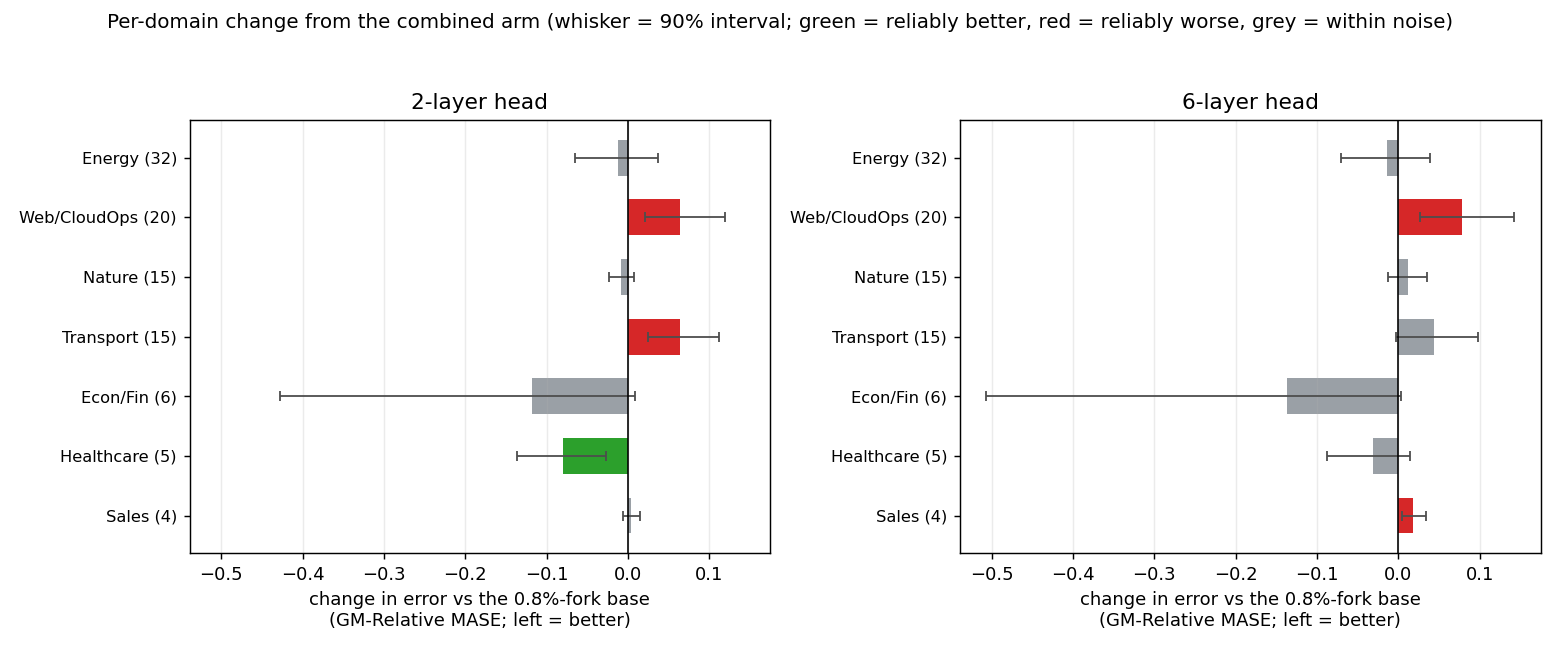
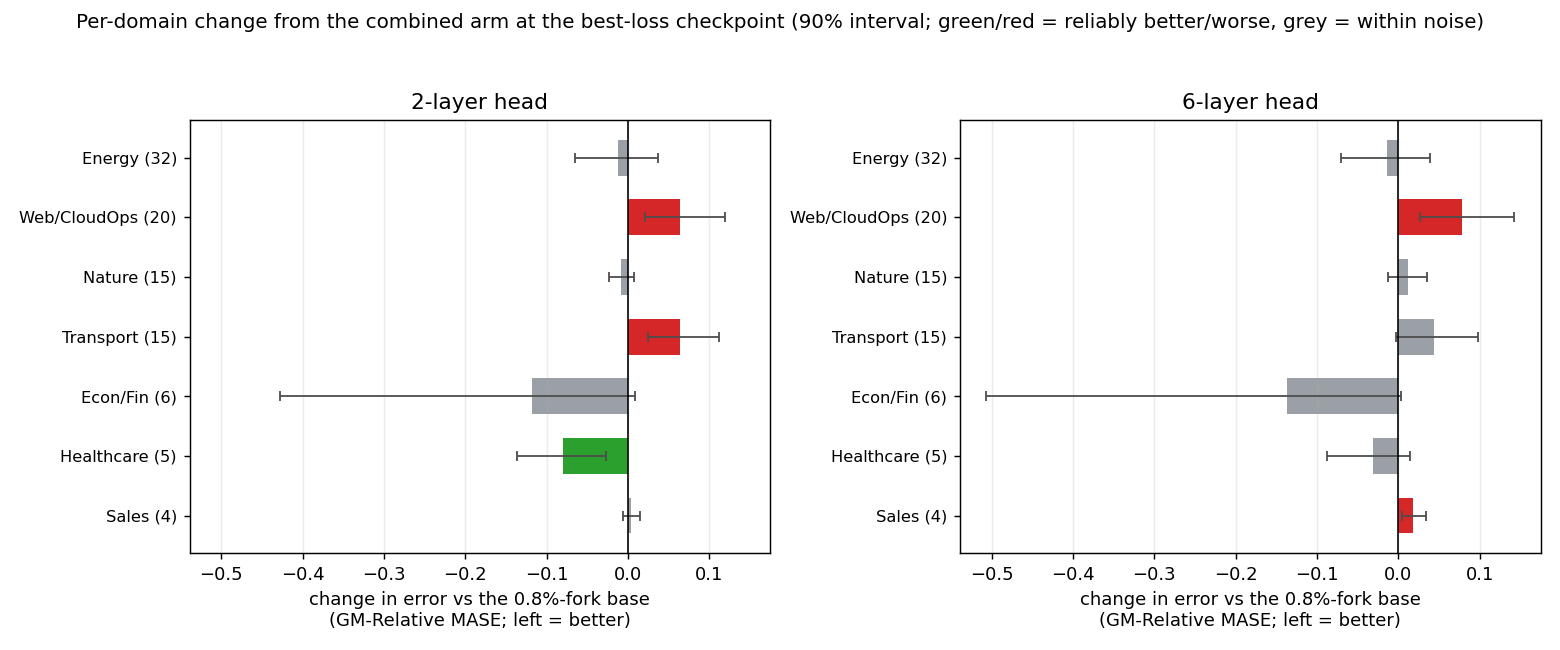
report(#328): bring crossfade_triplet.md into full report-standard compliance
Structure and ordering: triplet-isolation results moved out of Follow-up into
the results flow (question -> results -> protocol -> learned -> follow-up);
Follow-up now carries only the two-candidate framing, the flagged bottleneck
hypothesis, and the stop-grad pointer; no forward references remain.

Facts-only precision (no conclusion changed): claims pinned to checkpoints and
scoped to their arm groups; direct paired contrasts (triplet vs its host; 25k vs
best-loss) added with 90% CIs from the same bootstrap; head protocols (fresh 30k
at best, re-adapt 10k at last) disclosed at the headline and in Protocol;
B4, R2 baselines defined; mis-roundings aligned to scoreboard.py full precision
(1.169->1.170, +0.101->+0.100, 1.261->1.260); saved best-loss step 6,400.

Figures: per-domain split added at the last checkpoint (perdomain_delta_last)
where the headline gain lives - Energy is the only both-head reliable mover;
both per-domain titles now name their checkpoint; orphan training_metrics.png
removed; annex param counts filled from run logs.

Two sub-agent review passes (claims vs data, checklist) confirm every number
against scoreboard.py, the per-domain CSVs, losses CSVs, and run logs.

Changed region(s): [[0.0615, 0.0, 0.9538, 0.0615]]

diff --git a/experiments/2026-06-03_crossfade_triplet/scripts/perdomain_stats.py b/experiments/2026-06-03_crossfade_triplet/scripts/perdomain_stats.py
@@ -23,7 +23,9 @@ ED = os.environ.get("ED", "/tmp/cf-328/experiments/2026-06-03_crossfade_triplet"
 OUTCSV = os.environ.get("OUTCSV", f"{ED}/results/perdomain_stats.csv")
 OUTPNG = os.environ.get("OUTPNG", f"{ED}/plots/perdomain_delta.png")
 BASE_TAG = "xshh_allt_forked2_qk_aon_b1024"
-TRIP_TAG = "allt08_xftrip_nobn_enc3_qk_aon_b1024"
+TRIP_TAG = os.environ.get("TRIP_TAG", "allt08_xftrip_nobn_enc3_qk_aon_b1024")
+TITLE = os.environ.get("TITLE", "Per-domain change from the combined arm (whisker = 90% interval; "
+                                "green = reliably better, red = reliably worse, grey = within noise)")
 # fixed (task-count descending) order
 DOMAINS = ["Energy", "Web/CloudOps", "Nature", "Transport", "Econ/Fin", "Healthcare", "Sales"]
 HLAB = {"2L": "2-layer head", "6L": "6-layer head"}
@@ -118,8 +120,7 @@ if any(data[("6L", d)]["tasks"] >= 2 for d in DOMAINS):
         ax.set_title(HLAB[head], fontsize=12)
         ax.set_xlabel("change in error vs the 0.8%-fork base\n(GM-Relative MASE; left = better)")
         ax.grid(axis="x", alpha=0.25)
-    fig.suptitle("Per-domain change from the combined arm (whisker = 90% interval; "
-                 "green = reliably better, red = reliably worse, grey = within noise)", fontsize=11)
+    fig.suptitle(TITLE, fontsize=11)
     fig.tight_layout(rect=(0, 0, 1, 0.95))
     os.makedirs(os.path.dirname(OUTPNG), exist_ok=True)
     fig.savefig(OUTPNG, dpi=130)

diff --git a/experiments/2026-06-03_crossfade_triplet/crossfade_triplet.md b/experiments/2026-06-03_crossfade_triplet/crossfade_triplet.md
@@ -11,9 +11,9 @@ responsible?
 
 *Forecast error is **GM-Relative MASE**: the geometric mean, over GIFT-Eval's 97 tasks, of a model's
 error divided by the seasonal-naive forecast's error. Lower is better; 1.0 = seasonal-naive. Each
-frozen backbone is scored by training a fresh quantile forecasting head on top — once with two
-layers (**2L**), once with six (**6L**) — and evaluating on all 97 tasks. A **paired bootstrap** over
-the 97 tasks (resample the task list with repeats, score both models on each resample so per-task
+frozen backbone is scored by training a quantile forecasting head on top — once with two layers
+(**2L**), once with six (**6L**) — and evaluating on all 97 tasks. A **paired bootstrap** over the
+97 tasks (resample the task list with repeats, score both models on each resample so per-task
 difficulty cancels) gives a 90% interval on each arm's difference from the base. One backbone seed
 per arm, so every interval is over tasks, not over training seeds.*
 
@@ -25,21 +25,25 @@ the base after full training (the last checkpoint).
 | arm vs base | head | best-loss GM | Δ (90% CI) | last GM | Δ (90% CI) |
 |---|---|--:|:--:|--:|:--:|
 | L3+nobn+triplet | 2L | 1.220 | +0.007 (−0.014, +0.028) | **1.181** | **−0.032 (−0.050, −0.014)** |
-| L3+nobn+triplet | 6L | 1.211 | +0.013 (−0.012, +0.036) | **1.169** | **−0.029 (−0.049, −0.011)** |
+| L3+nobn+triplet | 6L | 1.211 | +0.013 (−0.012, +0.036) | **1.170** | **−0.029 (−0.049, −0.011)** |
 
 Base GM is 1.213 (2L) and 1.198 (6L). At the best-loss checkpoint both intervals cover zero, so the
-arm is within task-set noise — the neutral reading. At the last checkpoint both intervals sit fully
-below zero on both heads, so the arm reliably beats the base. Selecting the backbone by lowest
-contrastive loss hid this gain; evaluating at full training revealed it.
+arm is within task-set noise. At the last checkpoint both intervals sit fully below zero on both
+heads, so the arm reliably beats the base. Selecting the backbone by lowest contrastive loss hid
+this gain; evaluating at full training revealed it. (The two checkpoint columns also differ in head
+protocol — fresh 30k-step heads at best-loss, the same heads re-adapted a further 10k steps at
+last, identically for every arm; see Protocol.)
 
 ## Disentanglement — the gain tracks the triplet, not bottleneck removal
 
 Running the three changes one at a time (same base, same seed, same budget) separates their effects.
-The figure below reads each arm against the base at both checkpoints and both heads.
+The figure below reads every arm trained to the standard 12.5k budget against the base at both
+checkpoints and both heads; this section covers the component arms, the next section the two arms
+that add the triplet to other hosts, and the 25k extension is read separately below.
 
-![GM-Relative MASE for each disentanglement arm at the best-loss and last checkpoints, 2L and 6L
-heads, against the base. Bars below the base line and with a 90% interval clear of it are reliable
-improvements; bars above are reliable worsenings.](plots/gm_summary.png)
+![Change in GM-Relative MASE vs the base for every 12.5k-budget arm at the best-loss (solid) and
+last (hatched) checkpoints, 2L and 6L heads. Bars below zero are improvements; green and red mark a
+90% interval clear of zero (reliably better / reliably worse), grey is within noise.](plots/gm_summary.png)
 
 | arm | head | best-loss Δ (90% CI) | last Δ (90% CI) |
 |---|---|:--:|:--:|
@@ -52,62 +56,93 @@ improvements; bars above are reliable worsenings.](plots/gm_summary.png)
 | **L3+nobn+triplet** | 2L | +0.007 (−0.014, +0.028) ns | **−0.032 (−0.050, −0.014) better** |
 | **L3+nobn+triplet** | 6L | +0.013 (−0.012, +0.036) ns | **−0.029 (−0.049, −0.011) better** |
 
-Reading down the column:
+Reading down the table:
 
 - **Dropping the bottleneck alone (L6+nobn)** is reliably worse than the base on both heads at both
-  checkpoints — the largest single worsening among the components.
+  checkpoints — the only arm reliably worse in all four head × checkpoint cells.
 - **Shrinking the encoder alone (L3)** is inconsistent: reliably worse at 2L-best and at 6L-last,
   neutral elsewhere.
 - **L3+nobn** (both architecture changes, no triplet) is neutral except 6L-last, where it is
   marginally better (−0.015, upper bound −0.002).
-- **L3+nobn+triplet** is the only arm reliably better on both heads, and only at full training.
+- **L3+nobn+triplet** is the only arm in this table reliably better on both heads, and only at full
+  training.
 
 Adding the triplet is the only change that turns the arm into a reliable both-head improvement, so
-the full-training gain is attributable to the triplet rather than to removing the bottleneck or
-shrinking the encoder.
+the full-training gain tracks the triplet rather than the architecture changes alone. The direct
+paired contrast of L3+nobn+triplet against L3+nobn at the last checkpoint puts the triplet's own
+increment at −0.035 (−0.050, −0.020) at 2L (reliable) and −0.014 (−0.030, +0.002) at 6L — same
+direction, within noise, on top of L3+nobn's own marginal 6L-last gain (−0.015).
+
+## Triplet isolation — the triplet alone is sufficient on the base
+
+The headline arm bundles the triplet with two architecture changes. Two further arms isolate the
+triplet's effect: each row below differs from its own reference by the triplet alone.
+
+| arm | difference from its reference | result |
+|---|---|---|
+| **base+triplet** | adds only the triplet to the unmodified base | **Reliably better at both heads at best-loss, and at 2L robust to checkpoint choice**: 2L best 1.186 (Δ −0.027 [−0.042, −0.011]), 2L last 1.187 (Δ −0.025 [−0.042, −0.008]), 6L best 1.185 (Δ −0.013 [−0.025, −0.002]), 6L last 1.190 (Δ −0.008 [−0.020, +0.003], same direction, ns). |
+| L6+nobn+triplet | adds the triplet to L6+nobn | Ends reliably worse than the base on both heads and degrades with training: 2L 1.274 → 1.313 (last Δ +0.100), 6L 1.225 → 1.260 (last Δ +0.062). |
+
+Two readings follow.
+
+**The triplet alone is sufficient.** On the unmodified base it is reliably better at both heads at
+the best-loss checkpoint, without any architecture change — and unlike the headline arm, whose
+verdict flips between checkpoints, its 2L gain does not depend on checkpoint selection (best −0.027,
+last −0.025, both reliable; at 6L the last checkpoint keeps the direction at −0.008 but is within
+noise). Its 2L gain is comparable to the headline arm's (−0.032 at last); the architecture changes
+are not needed for the effect. The predecessor #326 (a C-only crossfade slice on the 10%-fork base)
+gave ≈−0.013 over its base — the same direction, smaller.
+
+**The failure case is the no-bottleneck 6-layer configuration, not 6-layer encoders.** The triplet
+helps on the base (6-layer encoder, with bottleneck) and, at full training, on L3+nobn — but at full
+training it reliably hurts L6+nobn (direct paired contrast against L6+nobn: 2L +0.039
+[+0.017, +0.062], 6L +0.042 [+0.017, +0.067]), the one configuration that is already reliably worse
+than the base on its own.
 
 ## Train-longer hurts
 
 Extending the combined backbone from 12,500 to 25,000 steps (fresh data for the extra steps,
-equivalent to a single 25k-step run) does not help: the step-25k checkpoint is reliably worse than
-the base on both heads. This eval uses a fresh 30k head — the same protocol as the best-loss evals —
-so the controlled comparison is against the base and against the fresh-head best-loss checkpoint
-(step 6,407: 1.220 / 1.211); both show the longer-trained backbone is worse.
+equivalent to a single 25k-step run) does not help. This eval uses a fresh 30k head — the same
+protocol as the best-loss evals — so the controlled comparisons are against the base and against the
+fresh-head best-loss checkpoint (step 6,400: 1.220 / 1.211): the step-25k backbone is reliably worse
+than the base on both heads, and worse than the best-loss point reliably at 2L (same direction,
+within noise, at 6L).
 
-| arm (step 25k, fresh head) | head | GM | Δ vs base (90% CI) | Δ vs step-6.4k |
+| arm (step 25k, fresh head) | head | GM | Δ vs base (90% CI) | Δ vs step-6.4k (90% CI) |
 |---|---|--:|:--:|:--:|
-| L3+nobn+triplet @25k | 2L | 1.249 | +0.037 (+0.018, +0.055) worse | +0.030 |
-| L3+nobn+triplet @25k | 6L | 1.222 | +0.024 (+0.013, +0.035) worse | +0.011 |
+| L3+nobn+triplet @25k | 2L | 1.249 | +0.037 (+0.018, +0.055) worse | +0.030 (+0.002, +0.059) worse |
+| L3+nobn+triplet @25k | 6L | 1.222 | +0.024 (+0.013, +0.035) worse | +0.011 (−0.014, +0.037) ns |
 
 25k steps is ≈0.6 of one epoch (the pretrain set `small_v1` holds 42,571,692 windows; at 1,016 real
-rows/step one pass ≈ 41,900 steps), so this is late-training instability within the first epoch, not
-data starvation. *Protocol note:* the 12.5k headline result (1.181 / 1.169) used a re-adapted head,
-not a fresh one, so it is not on the same head-protocol curve as the fresh-head points here and is
-not used for the train-longer contrast.
+rows/step one pass ≈ 41,900 steps), so the degradation arrives within the first epoch — data
+starvation is not the cause. *Protocol note:* the 12.5k headline result (1.181 / 1.170) used a
+re-adapted head, not a fresh one, so it is not on the same head-protocol curve as the fresh-head
+points here and is not used for the train-longer contrast.
 
-## Training dynamics — pretext quality is anti-correlated with transfer
+## Training dynamics — pretext loss does not predict transfer
 
 The combined arm trains cleanly and does not collapse. The panels below overlay all arms on log-log
 axes.
 
 ![Training dynamics, log-log, all arms vs the base (dashed grey), from step 100 with a 120-step
-moving average. Top, lower is better: contrastive loss above its InfoNCE floor, the ratio gap
-(1−ff)/(1−fp) where ff is forecast-to-future cosine and fp forecast-to-present cosine, 1−R²_naive and
-1−R²_random. Bottom, higher is better: U_batch and U_temporal, the fraction of embedding dimensions
-in use.](plots/disentangle_metrics.png)
+moving average. Lower is better for: contrastive loss above its InfoNCE floor; the ratio gap
+(1−ff)/(1−fp), where ff is the forecast-to-future cosine and fp the forecast-to-present cosine; and
+1−R²_naive and 1−R²_random, the share of the next latent the forecaster leaves unexplained relative
+to a latent-persistence / random-pair baseline. Higher is better for: U_batch and U_temporal, the
+fraction of embedding dimensions in use.](plots/disentangle_metrics.png)
 
-At step 12,500 the arms rank on the pretext task in the opposite order to their downstream result:
+At step 12,500 the extremes of the pretext task sit in the opposite order downstream:
 
-- The **triplet raises the contrastive loss** (1.065 for L3+nobn+triplet vs 0.895 for the base) — a
-  harder pretext — yet it is the arm that improves downstream.
-- **Dropping the bottleneck lowers the contrastive loss and raises used dimensions** (L6+nobn reaches
-  loss 0.662 and U_batch 0.197, the easiest pretext and the most-used embedding among the arms) — yet
-  it transfers worst.
+- The **triplet raises the contrastive loss** (1.065 for L3+nobn+triplet vs 0.895 for the base) —
+  the hardest pretext among all arms — yet it is the arm that improves downstream.
+- **Dropping the bottleneck lowers the contrastive loss and raises used dimensions** (L6+nobn
+  reaches loss 0.662 and U_batch 0.197, the easiest pretext and the most-used embedding among the
+  no-triplet arms) — yet it is the only arm reliably worse than the base in all four cells.
 
-On this benchmark a lower contrastive loss is not a sign of a better forecasting backbone. (A harder
-pretext is not required for a gain either — see base+triplet in the follow-up section, which leaves
-the pretext loss essentially unchanged and still transfers better.) No arm collapsed: every
-used-dimension count stays well above zero and forecast-to-future cosine reaches ~0.99.
+On this benchmark a lower contrastive loss is not a sign of a better forecasting backbone. A harder
+pretext is not required for a gain either: base+triplet leaves the pretext loss essentially at the
+base value (0.881 vs 0.895) and still transfers better. No arm collapsed: every used-dimension count
+stays well above zero and forecast-to-future cosine reaches ~0.99.
 
 ## Protocol
 
@@ -117,90 +152,85 @@ set of negatives, on a mix that is 99.2% real series and 0.8% synthetic **forked
 ARMA series that share a prefix then diverge — a hard negative for position), under an **all-time**
 contrastive loss (it separates different series at every time lag, not just aligned positions). Held
 fixed: the two batch-1024 stabilisers (**QK-norm** and an **attention-output norm**),
-**floor-subtraction** (re-basing the loss by its uniformity floor), the optimiser, learning rate,
+**floor-subtraction** (re-basing the loss by its InfoNCE floor), the optimiser, learning rate,
 temperature, and the random seed. The **triplet** adds, per step, one z-normalised window pair
 (A_norm, B_norm) and their blend C on top of the natural batch — C copies A's past, ramps across a
 transition band, and copies B's future, so position no longer separates the spliced window from its
-neighbours; the figure in the annex shows one example. Each backbone is frozen and scored by training
-a fresh 2L and 6L quantile head (30k steps, batch 256) and evaluating on GIFT-Eval (strategy B4) over
-the full 97 tasks. Because the headline arm changes three things together, its best-vs-last
-comparison measures a joint effect; the disentanglement arms isolate the components.
+neighbours; the annex shows one example.
+
+Each backbone is scored frozen, under two head protocols. At the **best-loss checkpoint** (lowest
+contrastive loss) a fresh 2L and a fresh 6L quantile head are trained on top (30k steps, batch 256)
+— the same fresh-head protocol as the base's own score, which uses the base's fully-trained backbone
+(12,500 steps). At the **last checkpoint** (step 12,500) the arm's best-loss head is resumed and
+re-adapted for 10k steps on the final backbone — the same re-adapt protocol for every arm. The 25k
+extension is scored with a fresh 30k head. Heads are evaluated on GIFT-Eval (forecast strategy
+**B4**: roll the forecast out in latent space, decode each step with the head) over the full 97
+tasks, and every delta is paired against the same base score. Because the headline arm changes three
+things together, its delta against the base measures their joint effect; the disentanglement arms
+isolate the components.
 
 ## What we learned
 
-1. **Checkpoint selection flips the verdict.** L3+nobn+triplet is neutral at best-loss (2L
-   +0.007, 6L +0.013, both CIs straddle zero) but reliably beats the base at full training (2L
-   −0.032 [−0.050, −0.014]; 6L −0.029 [−0.049, −0.011]). The earlier "neutral" reading came from the
-   best-loss checkpoint.
+1. **Checkpoint selection flips the verdict.** L3+nobn+triplet is neutral at best-loss (2L +0.007,
+   6L +0.013, both CIs straddle zero) but reliably beats the base at full training (2L −0.032
+   [−0.050, −0.014]; 6L −0.029 [−0.049, −0.011]).
 2. **The gain tracks the triplet.** Dropping the bottleneck alone is reliably worse on both heads;
-   shrinking the encoder alone is inconsistent; only the triplet arm is reliably better on both
-   heads, and only at full training.
-3. **Train-longer hurts.** Extending to 25k reliably worsens both heads (2L +0.037, 6L +0.024);
-   downstream peaks near 12.5k, within the first epoch.
-4. **Pretext loss does not predict transfer in either direction.** Dropping the bottleneck gives the
-   lowest contrastive loss and the worst transfer; the headline arm raises the loss and transfers
-   better; base+triplet leaves the loss essentially unchanged (0.881 vs 0.895) and still transfers
-   reliably better. Checkpoint and arm selection should not be driven by the contrastive loss.
+   shrinking the encoder alone is inconsistent; of the disentanglement arms, only the full
+   combination with the triplet is reliably better on both heads, and only at full training.
+3. **The triplet alone is sufficient on the base.** base+triplet is reliably better at both heads at
+   best-loss and keeps its 2L gain at the last checkpoint (−0.027 / −0.025); no architecture change
+   is needed.
+4. **Train-longer hurts.** Extending to 25k reliably worsens both heads against the base (2L +0.037,
+   6L +0.024) and sits above the fresh-head best-loss point (reliably at 2L) — all within the first
+   epoch.
+5. **Pretext loss does not predict transfer in either direction.** Dropping the bottleneck gives the
+   easiest pretext among the no-triplet arms yet is reliably worse in all four cells; the
+   headline arm raises the loss and transfers better; base+triplet leaves the loss essentially
+   unchanged (0.881 vs 0.895) and still transfers reliably better. Checkpoint and arm selection
+   should not be driven by the contrastive loss.
 
-## Follow-up — triplet isolation across architectures
+## Follow-up — two candidate recipes and a stop-gradient test
 
-The headline arm bundles the triplet with two architecture changes. Two further arms isolate the
-triplet's effect: each pair below differs from its own reference by the triplet alone.
+Two configurations improve on the base and carry forward: **base+triplet** (128-wide bottleneck
+kept) — the smaller gain but robust to checkpoint choice at 2L, and the simplest change — and
+**L3+nobn+triplet** (full-width forecaster) — the best single number (6L last 1.170) but only at
+full training, and it needed the encoder shrink to work.
 
-| arm | difference from its base | result |
-|---|---|---|
-| **base+triplet** | adds only the triplet to the unmodified base | **Reliably better at both heads at best-loss, and at 2L robust to checkpoint choice**: 2L best 1.186 (Δ −0.027 [−0.042, −0.011]), 2L last 1.187 (Δ −0.025 [−0.042, −0.008]), 6L best 1.185 (Δ −0.013 [−0.025, −0.002]), 6L last 1.190 (Δ −0.008 [−0.020, +0.003], same direction, ns). |
-| L6+nobn+triplet | adds the triplet to L6+nobn | Reliably worse than base and *degrades* with training: 2L 1.274 → 1.313 (last Δ +0.101), 6L 1.225 → 1.261 (last Δ +0.062). |
-
-Two readings follow.
-
-**The triplet alone is sufficient.** On the unmodified base it is reliably better at both heads at
-the best-loss checkpoint, without any architecture change — and unlike the headline arm, whose
-verdict flips between checkpoints, its gain does not depend on checkpoint selection at 2L (best
-−0.027, last −0.025, both reliable; at 6L the last checkpoint keeps the direction at −0.008 but is
-within noise). Its 2L gain matches the headline arm's (−0.032 at last); the architecture changes are
-not needed for the effect.
-
-**The failure case is the no-bottleneck 6-layer configuration, not 6-layer encoders.** The triplet
-helps on the base (6-layer encoder, with bottleneck) and on L3+nobn, but is reliably harmful on
-L6+nobn — the one configuration that is already reliably worse than base on its own. The
-pretext-difficulty reading does not explain this: base+triplet leaves the contrastive loss
-essentially at the base value (0.881 vs 0.895) yet transfers better, so a harder pretext is not the
-mechanism of the gain.
-
-The predecessor #326 (a C-only crossfade slice on the 10%-fork base) gave ≈−0.013 over its base —
-the same direction, smaller than base+triplet's −0.027 (2L) here.
-
-**Two candidate recipes, and where this points.** Two configurations improve on the base:
-**base+triplet** (with the 128-wide bottleneck) — the smaller gain but robust to checkpoint choice
-and the simplest change — and **L3+nobn+triplet** (full-width forecaster) — the best single number
-(6L last 1.169) but only at full training, and it needed the encoder shrink to work. The L6+nobn
-results are consistent with the bottleneck acting as protection against the objective being
-exploited: with a full-width forecaster and no other change, the contrastive loss drops to its
-lowest value across all arms while transfer is the worst, i.e. the extra width serves the pretext
-rather than the forecast. If the objective is fixed so that the full-width forecaster cannot exploit
-it, the no-bottleneck line is the preferred direction — the forecaster then learns at the encoder's
-width instead of through a 128-wide pinch. The stop-gradient follow-up (carded separately: stop-grad
-on the encoder side of the positive term, numerator and denominator) is exactly such an attempt.
+*Hypothesis — beyond what the data shows directly.* The L6+nobn results are consistent with the
+bottleneck protecting the objective from being exploited: with a full-width forecaster and no other
+change, the contrastive loss falls to 0.662 (base: 0.895) while the arm is reliably worse than the
+base in all four cells, i.e. the extra width appears to serve the pretext rather than the forecast.
+If the objective were fixed so that a full-width forecaster cannot exploit it, the no-bottleneck line
+would be the preferred direction — the forecaster would learn at the encoder's width instead of
+through a 128-wide pinch. The planned stop-gradient run (stop-grad on the encoder side of the
+positive term, numerator and denominator) is exactly such an attempt.
 
 ---
 
 ## Annex
 
-### Per-domain breakdown (best-loss checkpoint)
+### Per-domain breakdown (combined arm vs base)
 
-The split below is computed at the **best-loss** checkpoint of L3+nobn+triplet, where the aggregate is
-neutral; it shows where the neutral aggregate comes from, not where the full-training gain lands. A
-last-checkpoint per-domain breakdown would better match the headline.
+Both splits below break the combined arm's aggregate delta out by GIFT-Eval domain (task counts in
+brackets): the benchmark-wide paired bootstrap restricted to each domain's tasks.
+
+![Per-domain change in error for the combined arm at its last checkpoint, both heads, with the 90%
+paired-bootstrap interval per domain. Green = reliable improvement, red = reliable worsening, grey =
+within noise.](plots/perdomain_delta_last.png)
+
+At the last checkpoint — where the aggregate gain is — the only both-head reliable effect is an
+improvement on Energy, the largest domain (−0.066 at 2L, −0.089 at 6L, 32 tasks). Nature and
+Healthcare improve reliably at 2L, Sales at 6L; Transport worsens reliably at 2L (+0.036).
 
 ![Per-domain change in error for the combined arm at its best-loss checkpoint, both heads, with the
-90% paired-bootstrap interval per domain (task count in brackets). Green = reliable improvement, red =
-reliable worsening, grey = within noise.](plots/perdomain_delta.png)
+90% paired-bootstrap interval per domain. Green = reliable improvement, red = reliable worsening,
+grey = within noise.](plots/perdomain_delta.png)
 
-At this checkpoint the only both-head reliable effect is a worsening on Web/CloudOps (+0.064 at 2L,
-+0.079 at 6L, a 20-task domain). On one head each, the arm reliably worsens Transport (2L) and Sales
-(6L) and reliably improves Healthcare (2L). Econ/Fin shows the largest nominal improvement on both
-heads but, on six tasks, its interval is far too wide to call.
+At the best-loss checkpoint — where the aggregate is neutral — the only both-head reliable effect is
+a worsening on Web/CloudOps (+0.064 at 2L, +0.079 at 6L); that worsening is gone at the last
+checkpoint (2L −0.000, 6L +0.011, both within noise). On one head each, the arm reliably worsens
+Transport (2L) and Sales (6L) and reliably improves Healthcare (2L). Econ/Fin shows the largest
+nominal improvement on both heads but, on six tasks, its interval is far too wide to call.
 
 ### Crossfade triplet schematic
 
@@ -213,13 +243,14 @@ and copies B's future. Below, the blend weight rises 0→1 across the band.](plo
 | arm | encoder layers | forecaster width | triplet | backbone params |
 |---|--:|--:|:--:|--:|
 | base | 6 | 128 (bottleneck) | no | 12.7M |
-| L3 | 3 | 128 (bottleneck) | no | — |
-| L6+nobn | 6 | 384 (full width) | no | — |
-| L3+nobn | 3 | 384 (full width) | no | — |
+| L3 | 3 | 128 (bottleneck) | no | 7.4M |
+| L6+nobn | 6 | 384 (full width) | no | 22.1M |
+| L3+nobn | 3 | 384 (full width) | no | 16.7M |
 | L3+nobn+triplet (#328) | 3 | 384 (full width) | yes | 16.7M |
-| L6+nobn+triplet (pending) | 6 | 384 (full width) | yes | — |
-| base+triplet (pending) | 6 | 128 (bottleneck) | yes | — |
+| L6+nobn+triplet | 6 | 384 (full width) | yes | 22.1M |
+| base+triplet | 6 | 128 (bottleneck) | yes | 12.7M |
 
-The combined #328 arm carries 16.7M parameters against the base's 12.7M: widening the forecaster
-outweighs dropping three encoder layers. The reliable last-checkpoint gain therefore comes with more
-parameters, not fewer.
+The triplet changes only the training batch, so each triplet arm matches its host's parameter count.
+The combined #328 arm carries 16.7M parameters against the base's 12.7M — widening the forecaster
+outweighs dropping three encoder layers — so its last-checkpoint gain comes with more parameters
+than the base. base+triplet improves on the base at the base's own 12.7M.
